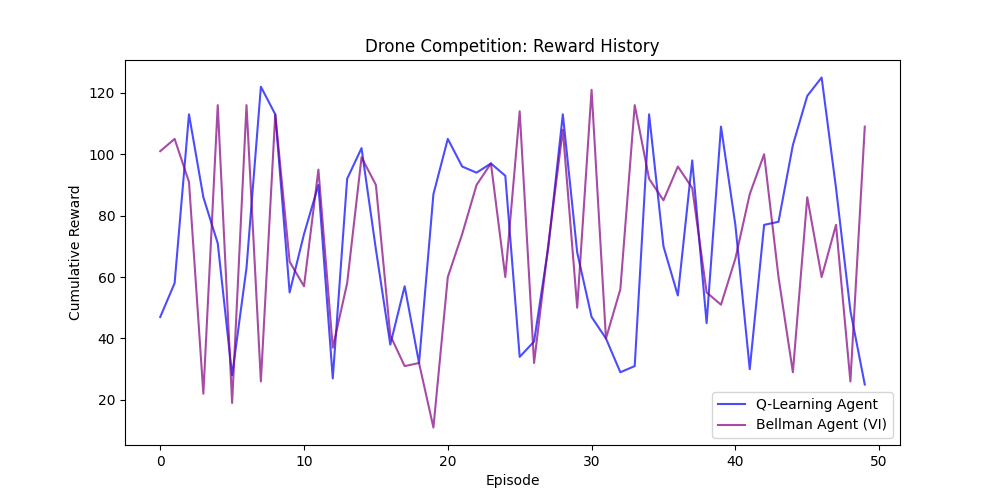
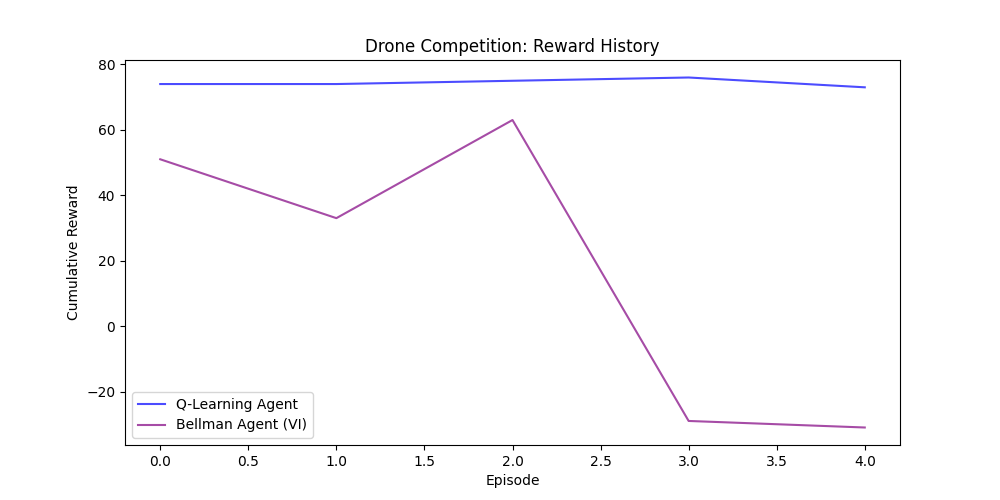
step4:   implement the probabilistic reward structure

diff --git a/code/gui.py b/code/gui.py
@@ -8,17 +8,21 @@ from code.config import (
 # Colors
 COLOR_EMPTY = (255, 255, 255)
 COLOR_GRID = (200, 200, 200)
-COLOR_DYNOBSTACLE = (255, 0, 0)     # Bright Red for Dynamic Obstacles
-COLOR_DYNBONUS = (255, 215, 0)       # Gold for Bonuses
-COLOR_GOAL = (0, 255, 0)             # Green
+COLOR_GOAL = (0, 255, 0)
 
-# Static Colors (User Placed)
-COLOR_WALL = (50, 50, 50)            # Dark Grey
-COLOR_TRAP = (200, 100, 100)          # Dull Red
-COLOR_WIND = (173, 216, 230)          # Light Blue
+# Cell Type Colors
+COLOR_MAP = {
+    "EMPTY":       (255, 255, 255),
+    "WALL":        (50, 50, 50),
+    "WIND":        (173, 216, 230), # Light Blue
+    "TRAP":        (200, 100, 100), # Dull Red
+    "ROADBLOCK":   (255, 0, 0),     # Bright Red (Extreme Penalty)
+    "BRIDGE":      (144, 238, 144), # Light Green (Bonus)
+    "SHORTCUT":    (255, 215, 0),   # Gold (High Bonus)
+}
 
-COLOR_DRONE_Q = (0, 0, 255)          # Blue
-COLOR_DRONE_VI = (128, 0, 128)        # Purple
+COLOR_DRONE_Q = (0, 0, 255)
+COLOR_DRONE_VI = (128, 0, 128)
 COLOR_TEXT = (0, 0, 0)
 COLOR_DASHBOARD = (240, 240, 240)
 
@@ -26,7 +30,7 @@ class SmartCityGUI:
     def __init__(self):
         pygame.init()
         self.screen = pygame.display.set_mode((WINDOW_WIDTH, WINDOW_HEIGHT))
-        pygame.display.set_caption("Drone Competition: Q-Learning vs Bellman Agent")
+        pygame.display.set_caption("Drone Competition: Probabilistic Dynamic Smart City")
         self.font = pygame.font.SysFont("Arial", 16)
         self.header_font = pygame.font.SysFont("Arial", 20, bold=True)
         self.clock = pygame.time.Clock()
@@ -34,31 +38,28 @@ class SmartCityGUI:
     def draw_grid(self, env, dual=False):
         for r in range(GRID_SIZE):
             for c in range(GRID_SIZE):
+                pos = (r, c)
                 rect = pygame.Rect(c * CELL_SIZE, r * CELL_SIZE, CELL_SIZE, CELL_SIZE)
-                color = COLOR_EMPTY
-                if (r, c) == GOAL_POS: color = COLOR_GOAL
-                elif (r, c) in env.static_walls: color = COLOR_WALL
-                elif (r, c) in env.static_traps: color = COLOR_TRAP
-                elif (r, c) in env.static_wind_zones: color = COLOR_WIND
-                elif (r, c) in env.dynamic_obstacles: color = COLOR_DYNOBSTACLE
-                elif (r, c) in env.dynamic_bonuses: color = COLOR_DYNBONUS
+                
+                if pos == GOAL_POS:
+                    color = COLOR_GOAL
+                else:
+                    type_name = env.cell_types.get(pos, "EMPTY")
+                    color = COLOR_MAP.get(type_name, COLOR_EMPTY)
+                
                 pygame.draw.rect(self.screen, color, rect)
                 pygame.draw.rect(self.screen, COLOR_GRID, rect, 1)
 
         if dual:
-            # Draw Q-Agent
+            # Q-Agent
             qr, qc = env.q_pos
             q_center = (qc * CELL_SIZE + CELL_SIZE // 2, qr * CELL_SIZE + CELL_SIZE // 2)
             pygame.draw.circle(self.screen, COLOR_DRONE_Q, q_center, CELL_SIZE // 3)
-            q_label = self.font.render("Q", True, (255, 255, 255))
-            self.screen.blit(q_label, (q_center[0]-5, q_center[1]-8))
             
-            # Draw VI-Agent
+            # VI-Agent
             vr, vc = env.vi_pos
             v_center = (vc * CELL_SIZE + CELL_SIZE // 2, vr * CELL_SIZE + CELL_SIZE // 2)
             pygame.draw.circle(self.screen, COLOR_DRONE_VI, v_center, CELL_SIZE // 4)
-            v_label = self.font.render("B", True, (255, 255, 255))
-            self.screen.blit(v_label, (v_center[0]-5, v_center[1]-8))
         else:
             r, c = env.agent_pos
             center = (c * CELL_SIZE + CELL_SIZE // 2, r * CELL_SIZE + CELL_SIZE // 2)
@@ -67,26 +68,22 @@ class SmartCityGUI:
     def draw_comparison_dashboard(self, episode, q_stats, vi_stats, history_q, history_vi):
         dash_rect = pygame.Rect(GRID_SIZE * CELL_SIZE, 0, SIDEBAR_WIDTH, WINDOW_HEIGHT)
         pygame.draw.rect(self.screen, COLOR_DASHBOARD, dash_rect)
-        
         y = 20
-        title = self.header_font.render(f"EPISODE: {episode}", True, COLOR_TEXT)
-        self.screen.blit(title, (GRID_SIZE * CELL_SIZE + 20, y))
+        self.screen.blit(self.header_font.render(f"EPISODE: {episode}", True, COLOR_TEXT), (GRID_SIZE * CELL_SIZE + 20, y))
         
         y += 40
-        # Q Column
         col1_x = GRID_SIZE * CELL_SIZE + 20
-        self.screen.blit(self.header_font.render("Q-AGENT (Blue)", True, COLOR_DRONE_Q), (col1_x, y))
-        # VI Column
         col2_x = GRID_SIZE * CELL_SIZE + 160
-        self.screen.blit(self.header_font.render("BELLMAN (Purp)", True, COLOR_DRONE_VI), (col2_x, y))
+        self.screen.blit(self.header_font.render("Q-AGENT", True, COLOR_DRONE_Q), (col1_x, y))
+        self.screen.blit(self.header_font.render("BELLMAN", True, COLOR_DRONE_VI), (col2_x, y))
         
         y += 30
         labels = ["Total Reward", "Steps", "Goal Rate", "Epsilon"]
         for label in labels:
             self.screen.blit(self.font.render(label, True, COLOR_TEXT), (col1_x, y))
             y += 20
-            q_val = self.font.render(str(q_stats.get(label, "N/A")), True, COLOR_DRONE_Q)
-            vi_val = self.font.render(str(vi_stats.get(label, "N/A")), True, COLOR_DRONE_VI)
+            q_val = self.font.render(str(q_stats.get(label, "0.0")), True, COLOR_DRONE_Q)
+            vi_val = self.font.render(str(vi_stats.get(label, "0.0")), True, COLOR_DRONE_VI)
             self.screen.blit(q_val, (col1_x + 10, y))
             self.screen.blit(vi_val, (col2_x + 10, y))
             y += 25
@@ -94,33 +91,23 @@ class SmartCityGUI:
         self.draw_dual_graph(history_q, history_vi, y + 20)
 
     def draw_dual_graph(self, hq, hvi, start_y):
-        graph_width = SIDEBAR_WIDTH - 40
-        graph_height = 120
-        graph_x = GRID_SIZE * CELL_SIZE + 20
-        graph_y = start_y + 25
+        graph_width, graph_height = SIDEBAR_WIDTH - 40, 100
+        graph_x, graph_y = GRID_SIZE * CELL_SIZE + 20, start_y + 25
         pygame.draw.rect(self.screen, (255, 255, 255), (graph_x, graph_y, graph_width, graph_height))
         pygame.draw.rect(self.screen, (0, 0, 0), (graph_x, graph_y, graph_width, graph_height), 1)
-        self.screen.blit(self.font.render("Reward Comparison", True, COLOR_TEXT), (graph_x, start_y))
-
         if len(hq) < 2 or len(hvi) < 2: return
-        
-        # Calculate scales
-        all_vals = hq[-100:] + hvi[-100:]
-        max_h = max(all_vals) if max(all_vals) != min(all_vals) else all_vals[0] + 1
-        min_h = min(all_vals)
+        all_vals = hq[-50:] + hvi[-50:]
+        max_h, min_h = max(all_vals), min(all_vals)
         range_h = max_h - min_h if max_h != min_h else 1
-        
-        def get_points(history, color):
-            points = []
-            slice_h = history[-100:]
-            for i, val in enumerate(slice_h):
-                x = graph_x + (i / (len(slice_h) - 1)) * graph_width
+        def get_p(hist, color):
+            pts = []
+            for i, val in enumerate(hist[-50:]):
+                x = graph_x + (i / (len(hist[-50:]) - 1)) * graph_width
                 y = graph_y + graph_height - ((val - min_h) / range_h) * graph_height
-                points.append((x, y))
-            pygame.draw.lines(self.screen, color, False, points, 2)
-
-        get_points(hq, COLOR_DRONE_Q)
-        get_points(hvi, COLOR_DRONE_VI)
+                pts.append((x, y))
+            pygame.draw.lines(self.screen, color, False, pts, 2)
+        get_p(hq, COLOR_DRONE_Q)
+        get_p(hvi, COLOR_DRONE_VI)
 
     def update_competition(self, env, episode, q_stats, vi_stats, hq, hvi):
         self.screen.fill(COLOR_EMPTY)

diff --git a/code/environment.py b/code/environment.py
@@ -1,9 +1,8 @@
 import numpy as np
 import random
 from code.config import (
-    GRID_SIZE, START_POS, GOAL_POS, STEP_PENALTY,
-    GOAL_REWARD_RANGE, TRAP_PENALTY_RANGE, WIND_PENALTY_RANGE,
-    WALL_COUNT_RANGE, TRAP_COUNT_RANGE, WIND_COUNT_RANGE
+    GRID_SIZE, START_POS, GOAL_POS, STEP_PENALTY, GOAL_REWARD,
+    CELL_TYPES, WALL_PROBABILITY
 )
 
 class GridWorld:
@@ -12,70 +11,55 @@ class GridWorld:
         self.start_pos = START_POS
         self.goal_pos = GOAL_POS
         
-        # Session-specific layout
         self.static_walls = set()
-        self.static_traps = set()
-        self.static_wind_zones = set()
+        self.cell_types = {} # (r, c) -> type_name
         
-        # Session-specific rewards
-        self.current_goal_reward = 100
-        self.current_trap_penalty = -50
-        self.current_wind_penalty = -5
-        
-        # Agent positions
         self.q_pos = START_POS
         self.vi_pos = START_POS
         self.agent_pos = START_POS
         
-        # Compatibility placeholders
+        # Compatibility
         self.dynamic_obstacles = set()
         self.dynamic_bonuses = set()
-
-    def randomize_layout(self, seed=None):
-        """Force-regenerates the entire city structure and physics."""
-        if seed is not None:
-            random.seed(seed)
-        # 1. Reset all structures
-        self.static_walls = set()
         self.static_traps = set()
         self.static_wind_zones = set()
+
+    def randomize_layout(self):
+        """Generates a new probabilistic grid configuration every step."""
+        self.static_walls = set()
+        self.cell_types = {}
         
-        # 2. Randomize rewards for this specific session
-        self.current_goal_reward = random.randint(*GOAL_REWARD_RANGE)
-        self.current_trap_penalty = random.randint(*TRAP_PENALTY_RANGE)
-        self.current_wind_penalty = random.randint(*WIND_PENALTY_RANGE)
+        # Define types and their relative probabilities
+        types = list(CELL_TYPES.keys())
+        probs = [CELL_TYPES[t][1] for t in types]
         
-        # 3. Randomize Coordinates
-        all_coords = [(r, c) for r in range(self.grid_size) for c in range(self.grid_size)]
-        forbidden = {self.start_pos, self.goal_pos, self.q_pos, self.vi_pos, self.agent_pos}
-        available = [c for c in all_coords if c not in forbidden]
-        
-        # Re-shuffle to ensure true randomness per call
-        random.shuffle(available)
-        
-        # Sample Buildings
-        n_walls = random.randint(*WALL_COUNT_RANGE)
-        self.static_walls = set(available[:n_walls])
-        available = available[n_walls:]
-        
-        # Sample Traps
-        n_traps = random.randint(*TRAP_COUNT_RANGE)
-        self.static_traps = set(available[:n_traps])
-        available = available[n_traps:]
-        
-        # Sample Wind Zones
-        n_wind = random.randint(*WIND_COUNT_RANGE)
-        self.static_wind_zones = set(available[:n_wind])
+        for r in range(self.grid_size):
+            for c in range(self.grid_size):
+                pos = (r, c)
+                if pos == self.start_pos or pos == self.goal_pos:
+                    self.cell_types[pos] = "EMPTY"
+                    continue
+                
+                # Check for active agents (SAFE ZONE)
+                if pos in {self.q_pos, self.vi_pos, self.agent_pos}:
+                    self.cell_types[pos] = "EMPTY"
+                    continue
+                
+                # Roll for WALL first
+                if random.random() < WALL_PROBABILITY:
+                    self.static_walls.add(pos)
+                    self.cell_types[pos] = "WALL"
+                else:
+                    # Roll for probabilistic cell type
+                    self.cell_types[pos] = random.choices(types, weights=probs)[0]
 
     def reset_competition(self):
-        """Resets agent positions AND triggers a fresh map randomization."""
         self.q_pos = self.start_pos
         self.vi_pos = self.start_pos
         self.randomize_layout() 
         return self.q_pos, self.vi_pos
 
     def reset(self):
-        """Standard reset for training."""
         self.agent_pos = self.start_pos
         self.randomize_layout()
         return self.agent_pos
@@ -93,20 +77,20 @@ class GridWorld:
         return (nr, nc)
 
     def step_dual(self, action_q, action_vi):
-        """Intra-episode step: Both agents move, THEN environment re-rolls."""
         self.q_pos = self._move_agent(self.q_pos, action_q)
         self.vi_pos = self._move_agent(self.vi_pos, action_vi)
-        self.randomize_layout()
+        self.randomize_layout() # Board re-rolls AFTER moves
         return self._get_result(self.q_pos), self._get_result(self.vi_pos)
 
     def _get_result(self, pos):
-        reward = STEP_PENALTY
         done = False
         if pos == self.goal_pos:
-            reward = self.current_goal_reward
-            done = True
-        elif pos in self.static_traps: reward = self.current_trap_penalty
-        elif pos in self.static_wind_zones: reward = self.current_wind_penalty
+            return pos, GOAL_REWARD, True
+        
+        type_name = self.cell_types.get(pos, "EMPTY")
+        cell_reward = CELL_TYPES.get(type_name, (0, 0))[0]
+        
+        reward = STEP_PENALTY + cell_reward
         return pos, reward, done
 
     def step(self, action):
@@ -129,11 +113,12 @@ class GridWorld:
         if (nr, nc) in self.static_walls: nr, nc = r, c
         
         next_state = (nr, nc)
-        reward = STEP_PENALTY
-        is_terminal = False
-        if next_state == self.goal_pos:
-            reward = self.current_goal_reward
-            is_terminal = True
-        elif next_state in self.static_traps: reward = self.current_trap_penalty
-        elif next_state in self.static_wind_zones: reward = self.current_wind_penalty
+        is_terminal = (next_state == self.goal_pos)
+        
+        # Calculate Reward based on current grid state
+        # (Since Bellman re-calculates every step, we use the visible current grid)
+        type_name = self.cell_types.get(next_state, "EMPTY")
+        cell_reward = CELL_TYPES.get(type_name, (0, 0))[0] if not is_terminal else GOAL_REWARD
+        
+        reward = STEP_PENALTY + cell_reward if not is_terminal else GOAL_REWARD
         return [(1.0, next_state, reward, is_terminal)]

diff --git a/code/config.py b/code/config.py
@@ -5,30 +5,32 @@ GRID_SIZE = 12
 START_POS = (0, 0)
 GOAL_POS = (11, 11)
 
-# Randomized Reward Ranges (Per Episode)
-GOAL_REWARD_RANGE = (50, 150)
-TRAP_PENALTY_RANGE = (-100, -30)
-WIND_PENALTY_RANGE = (-10, -2)
+# Probabilistic Element Configuration
+# (Value, Probability)
+CELL_TYPES = {
+    "EMPTY":       (0,   0.60),  # 60% Chance
+    "WIND":        (-2,  0.15),  # 15% Chance
+    "TRAP":        (-3,  0.10),  # 10% Chance
+    "ROADBLOCK":   (-5,  0.05),  # 5% Chance (Penalty only, not a wall)
+    "BRIDGE":      (1,   0.07),  # 7% Chance
+    "SHORTCUT":    (2,   0.03),  # 3% Chance
+}
+
+# Fixed Obstacles (Walls)
+WALL_PROBABILITY = 0.10 # 10% of cells will be impassable walls
+
+# Rewards
+GOAL_REWARD = 100
 STEP_PENALTY = -1
-
-# Randomized Element Counts
-WALL_COUNT_RANGE = (15, 25)
-TRAP_COUNT_RANGE = (5, 10)
-WIND_COUNT_RANGE = (10, 15)
-
-# Dynamic Elements Count (Legacy support if needed, but PRD says canvas is static during episode)
-DYNAMIC_OBSTACLE_COUNT = 0 
-DYNAMIC_BONUS_COUNT = 0
 
 # Q-Learning Hyperparameters
 GAMMA = 0.9
-ALPHA_START = 0.6
+ALPHA_START = 0.1
 ALPHA_MIN = 0.01
-ALPHA_DECAY = 0.9998  # Much slower decay
-
+ALPHA_DECAY = 0.9995
 EPSILON_START = 1.0
 EPSILON_MIN = 0.05
-EPSILON_DECAY = 0.9992 # Much slower decay (Epsilon ~0.1 after 3000 eps)
+EPSILON_DECAY = 0.9992
 
 # Bellman Agent Hyperparameters
 DISCOUNT_FACTOR = 0.99
@@ -38,7 +40,7 @@ CONVERGENCE_THRESHOLD = 1e-6
 N_EPISODES = 5000
 MAX_STEPS_PER_EPISODE = 200
 
-# GUI Configuration
+# GUI
 CELL_SIZE = 50
 SIDEBAR_WIDTH = 300
 WINDOW_WIDTH = (GRID_SIZE * CELL_SIZE) + SIDEBAR_WIDTH
